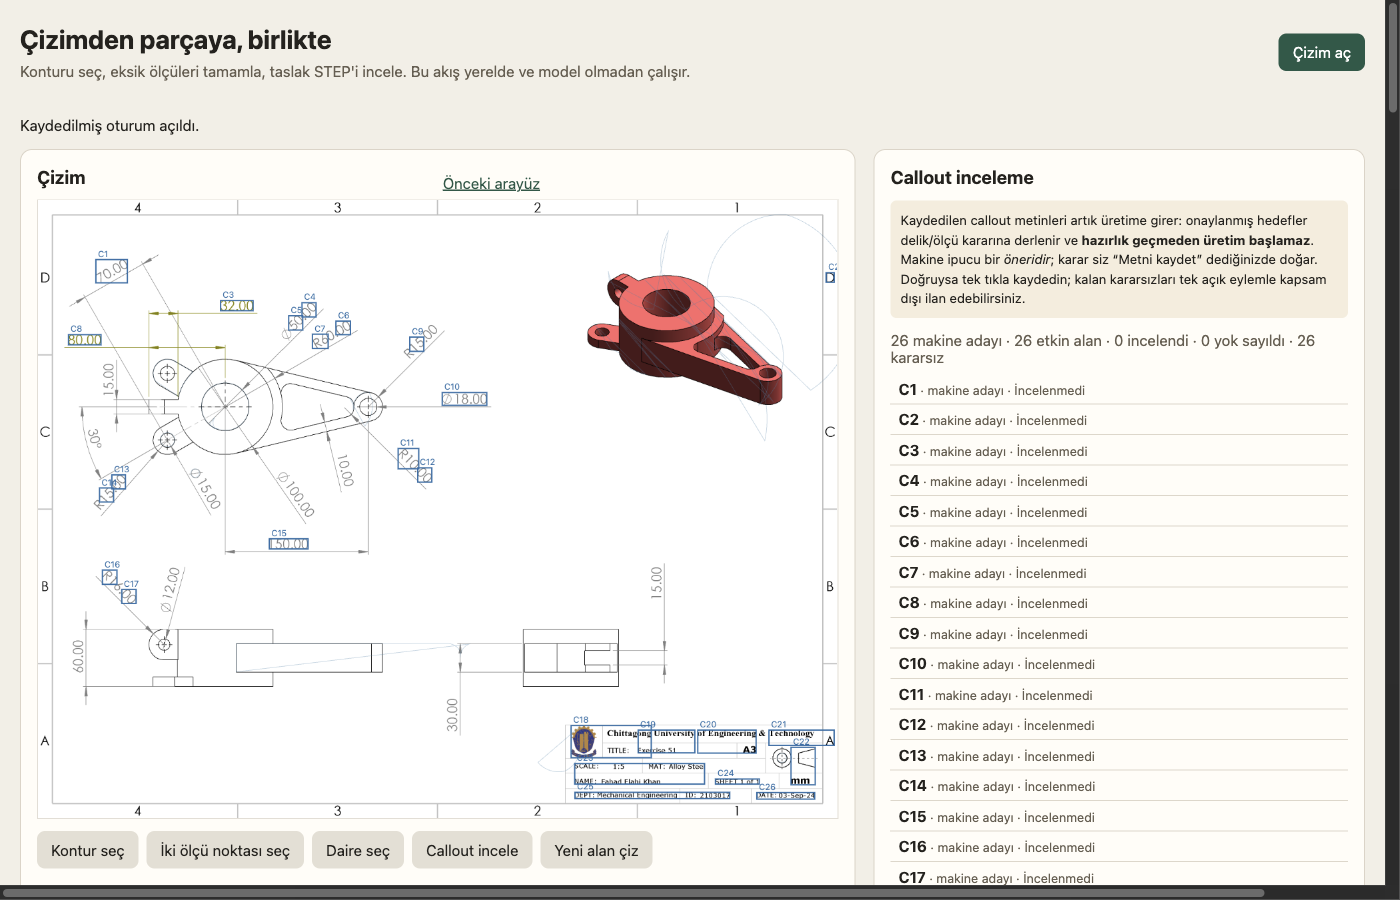
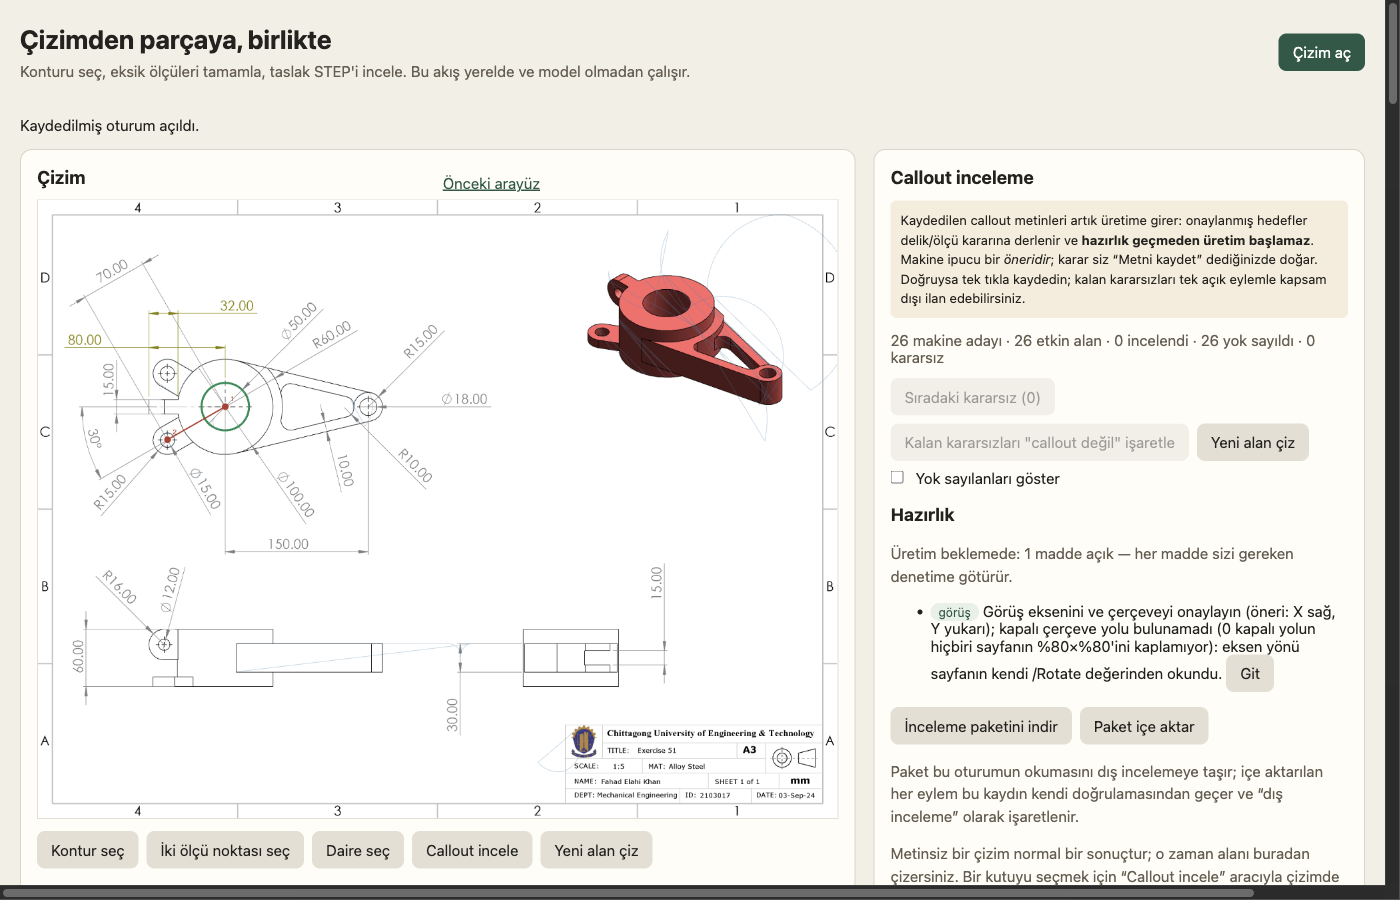
g11: surucu — kontur birlestirme onayi (PLAN 7.3) + yaris-korunmali ack (reload ile senkron)

diff --git a/eval/audits/20261007-guided-g11/g11_runner.py b/eval/audits/20261007-guided-g11/g11_runner.py
@@ -165,6 +165,16 @@ def main() -> int:
                 click_image_point(page, profile["points"][len(profile["points"]) // 2])
                 page.wait_ev(f"$('profile').value === {json.dumps(profile_id)}", timeout=30, label="profile retry")
 
+    # --- contour validation issues (PLAN §7.3 UI): the user approves closing an open end ----------
+    if page.ev("!![...$('contour-fix').querySelectorAll('input[type=checkbox]')].length"):
+        if not page.ev("[...$('contour-fix').querySelectorAll('input[type=checkbox]')][0].checked"):
+            click_element(page, "#contour-fix input[type=checkbox]")
+            try:
+                UX.wait_server(page, lambda d: bool((d["decisions"].get("contour") or {}).get("approve_join")),
+                               20, "contour join")
+            except TimeoutError:
+                fail("CONSTRAINT_UNSUPPORTED", {"what": "contour join approval"})
+
     # --- calibration (skipped when the reading's own calibration proposal was accepted) ----------
     calibration = recipe.get("calibration")
     measurement = None
@@ -201,11 +211,23 @@ def main() -> int:
             fail("TRANSCRIPTION", {"what": "thickness", "value": recipe["thickness_mm"]})
 
     # --- the traced draft (a user decision, not a silent default) --------------------------------
-    if recipe.get("acknowledge_trace") and not page.ev("$('ack').checked"):
-        page.click_selector("#ack")
-        try:
-            UX.wait_server(page, lambda d: d["decisions"].get("trace_acknowledged") is True, 40, "ack")
-        except TimeoutError:
+    if recipe.get("acknowledge_trace"):
+        acked = False
+        for _attempt in range(3):
+            if (UX.server(page) or {}).get("decisions", {}).get("trace_acknowledged") is True:
+                acked = True
+                break
+            if not page.ev("$('ack').checked"):
+                page.click_selector("#ack")
+            try:
+                UX.wait_server(page, lambda d: d["decisions"].get("trace_acknowledged") is True, 15, "ack")
+                acked = True
+                break
+            except TimeoutError:
+                page.ev("location.reload(); true;")   # a fresh render re-syncs the draft state
+                page.wait_ready()
+                time.sleep(1.2)
+        if not acked:
             fail("TRANSCRIPTION", {"what": "trace acknowledgement"})
 
     # --- the view direction / sheet frame: the user confirms it before producing (PLAN §8.6) ------
